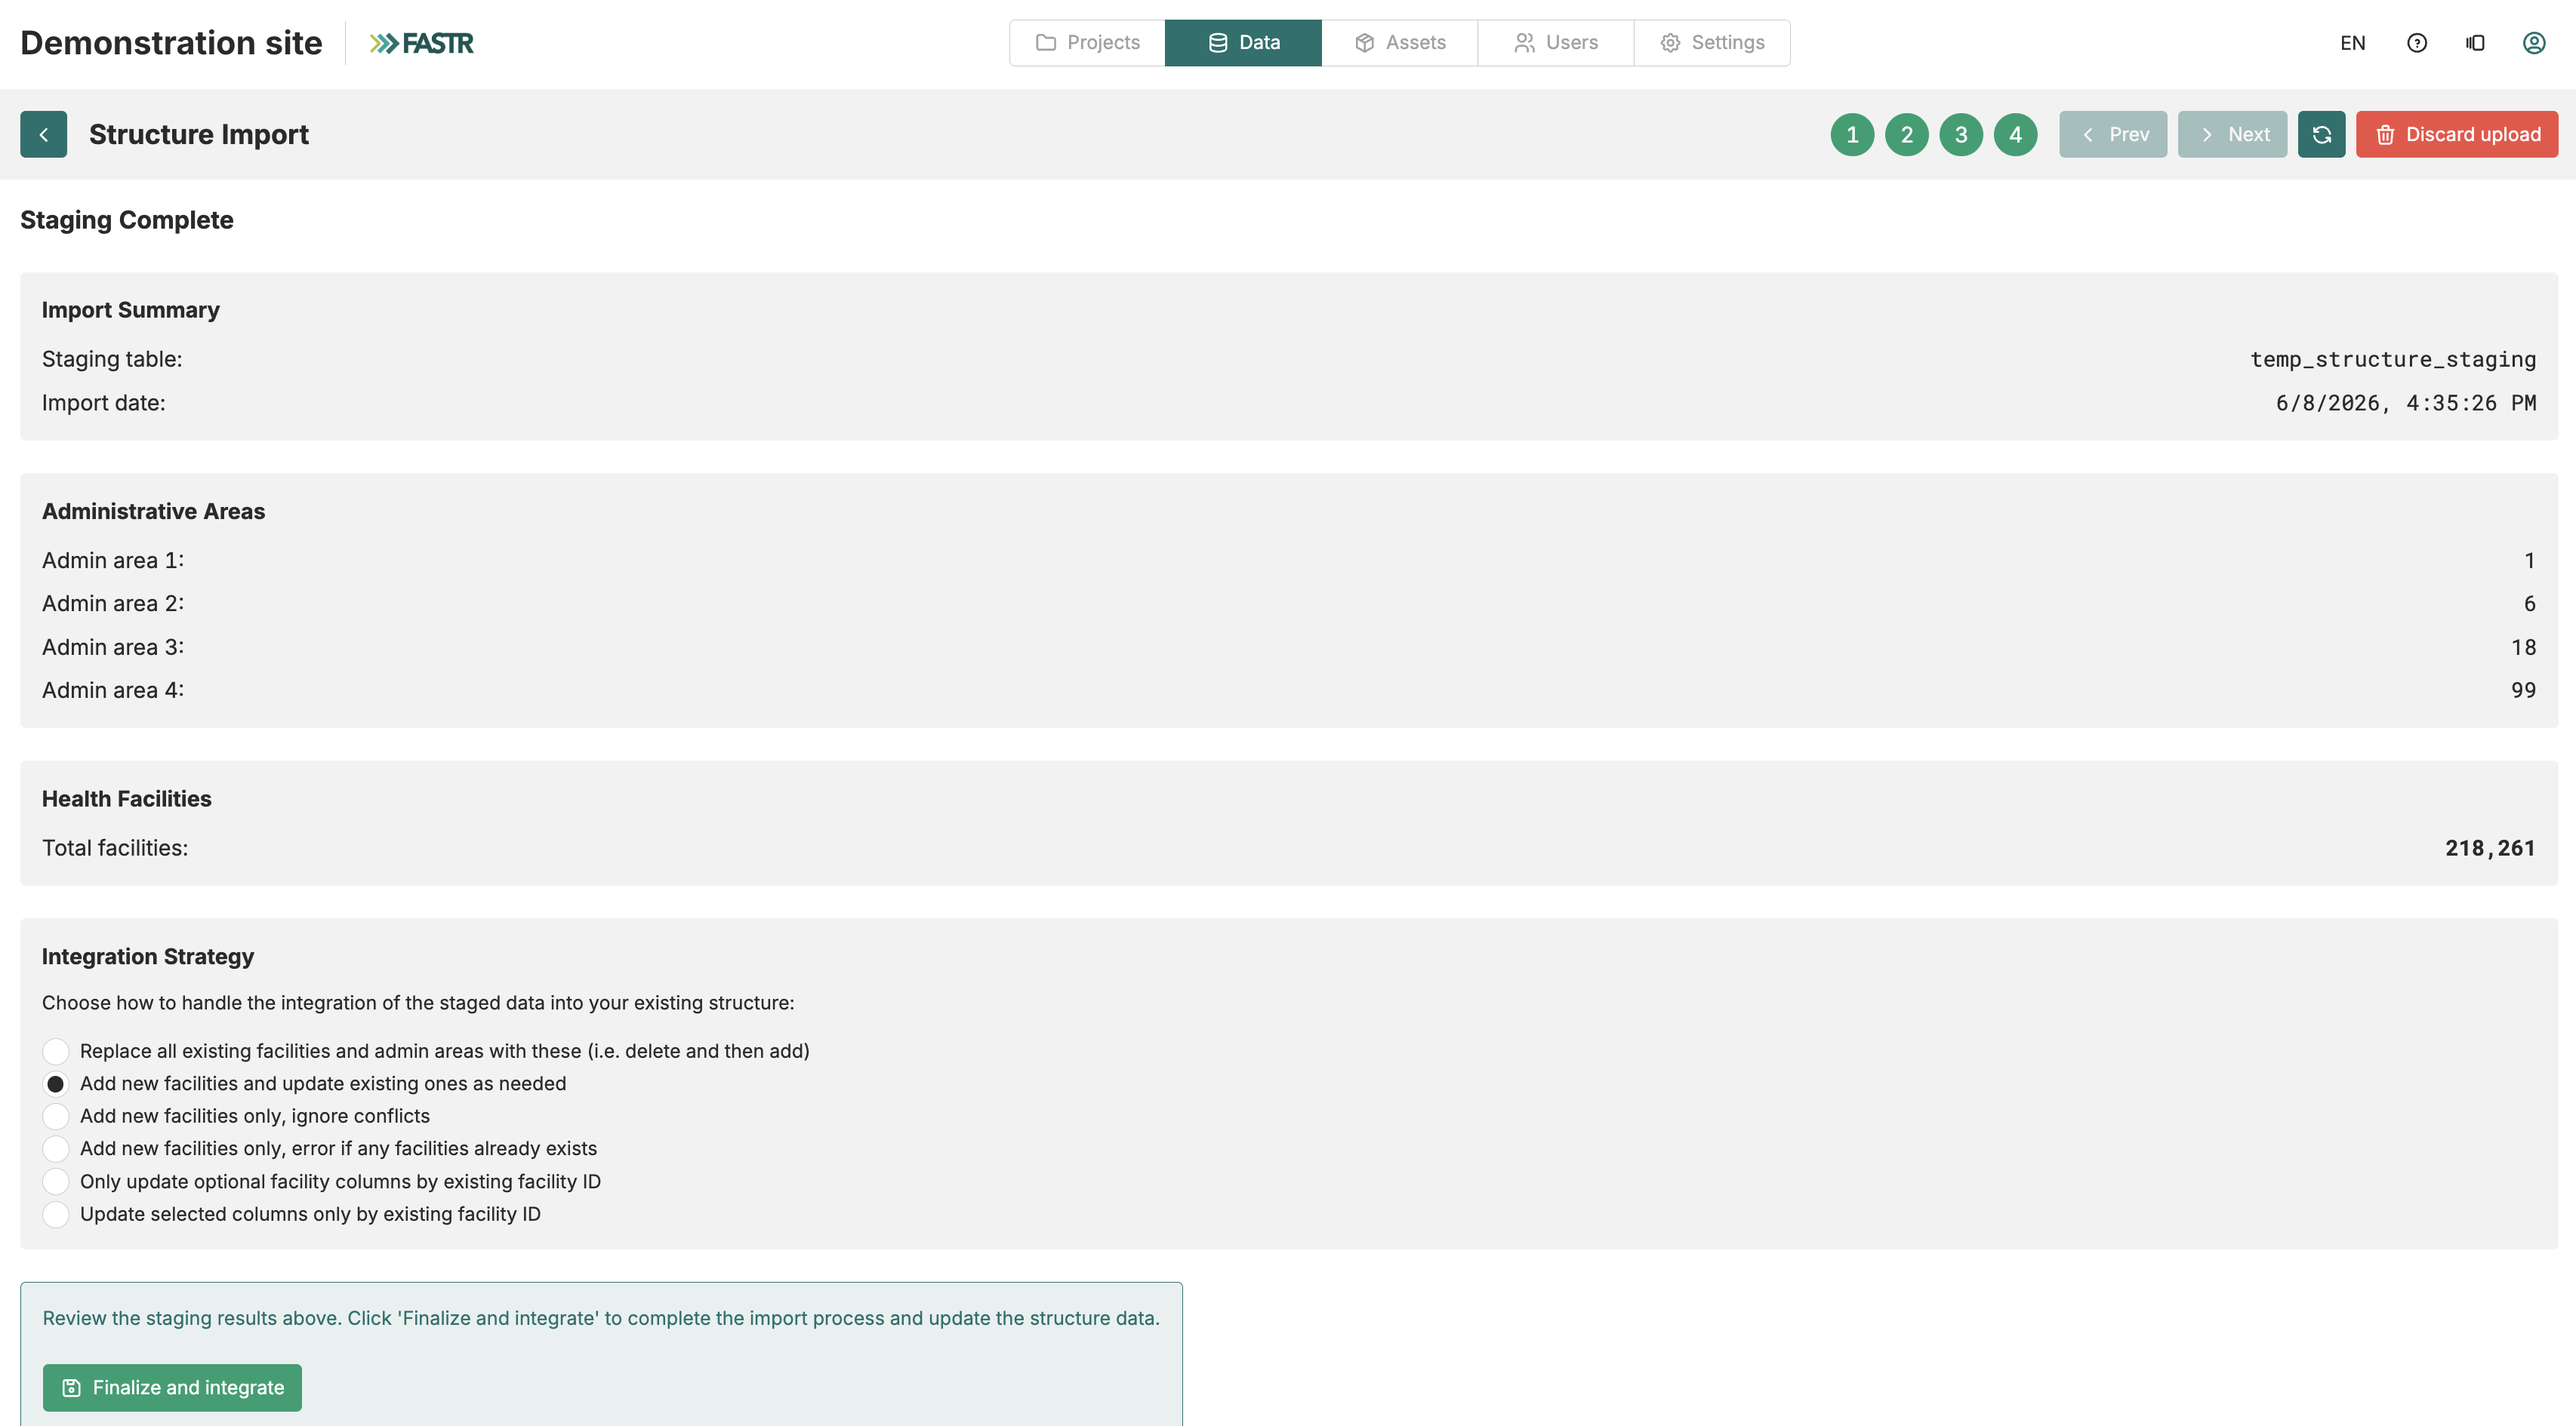
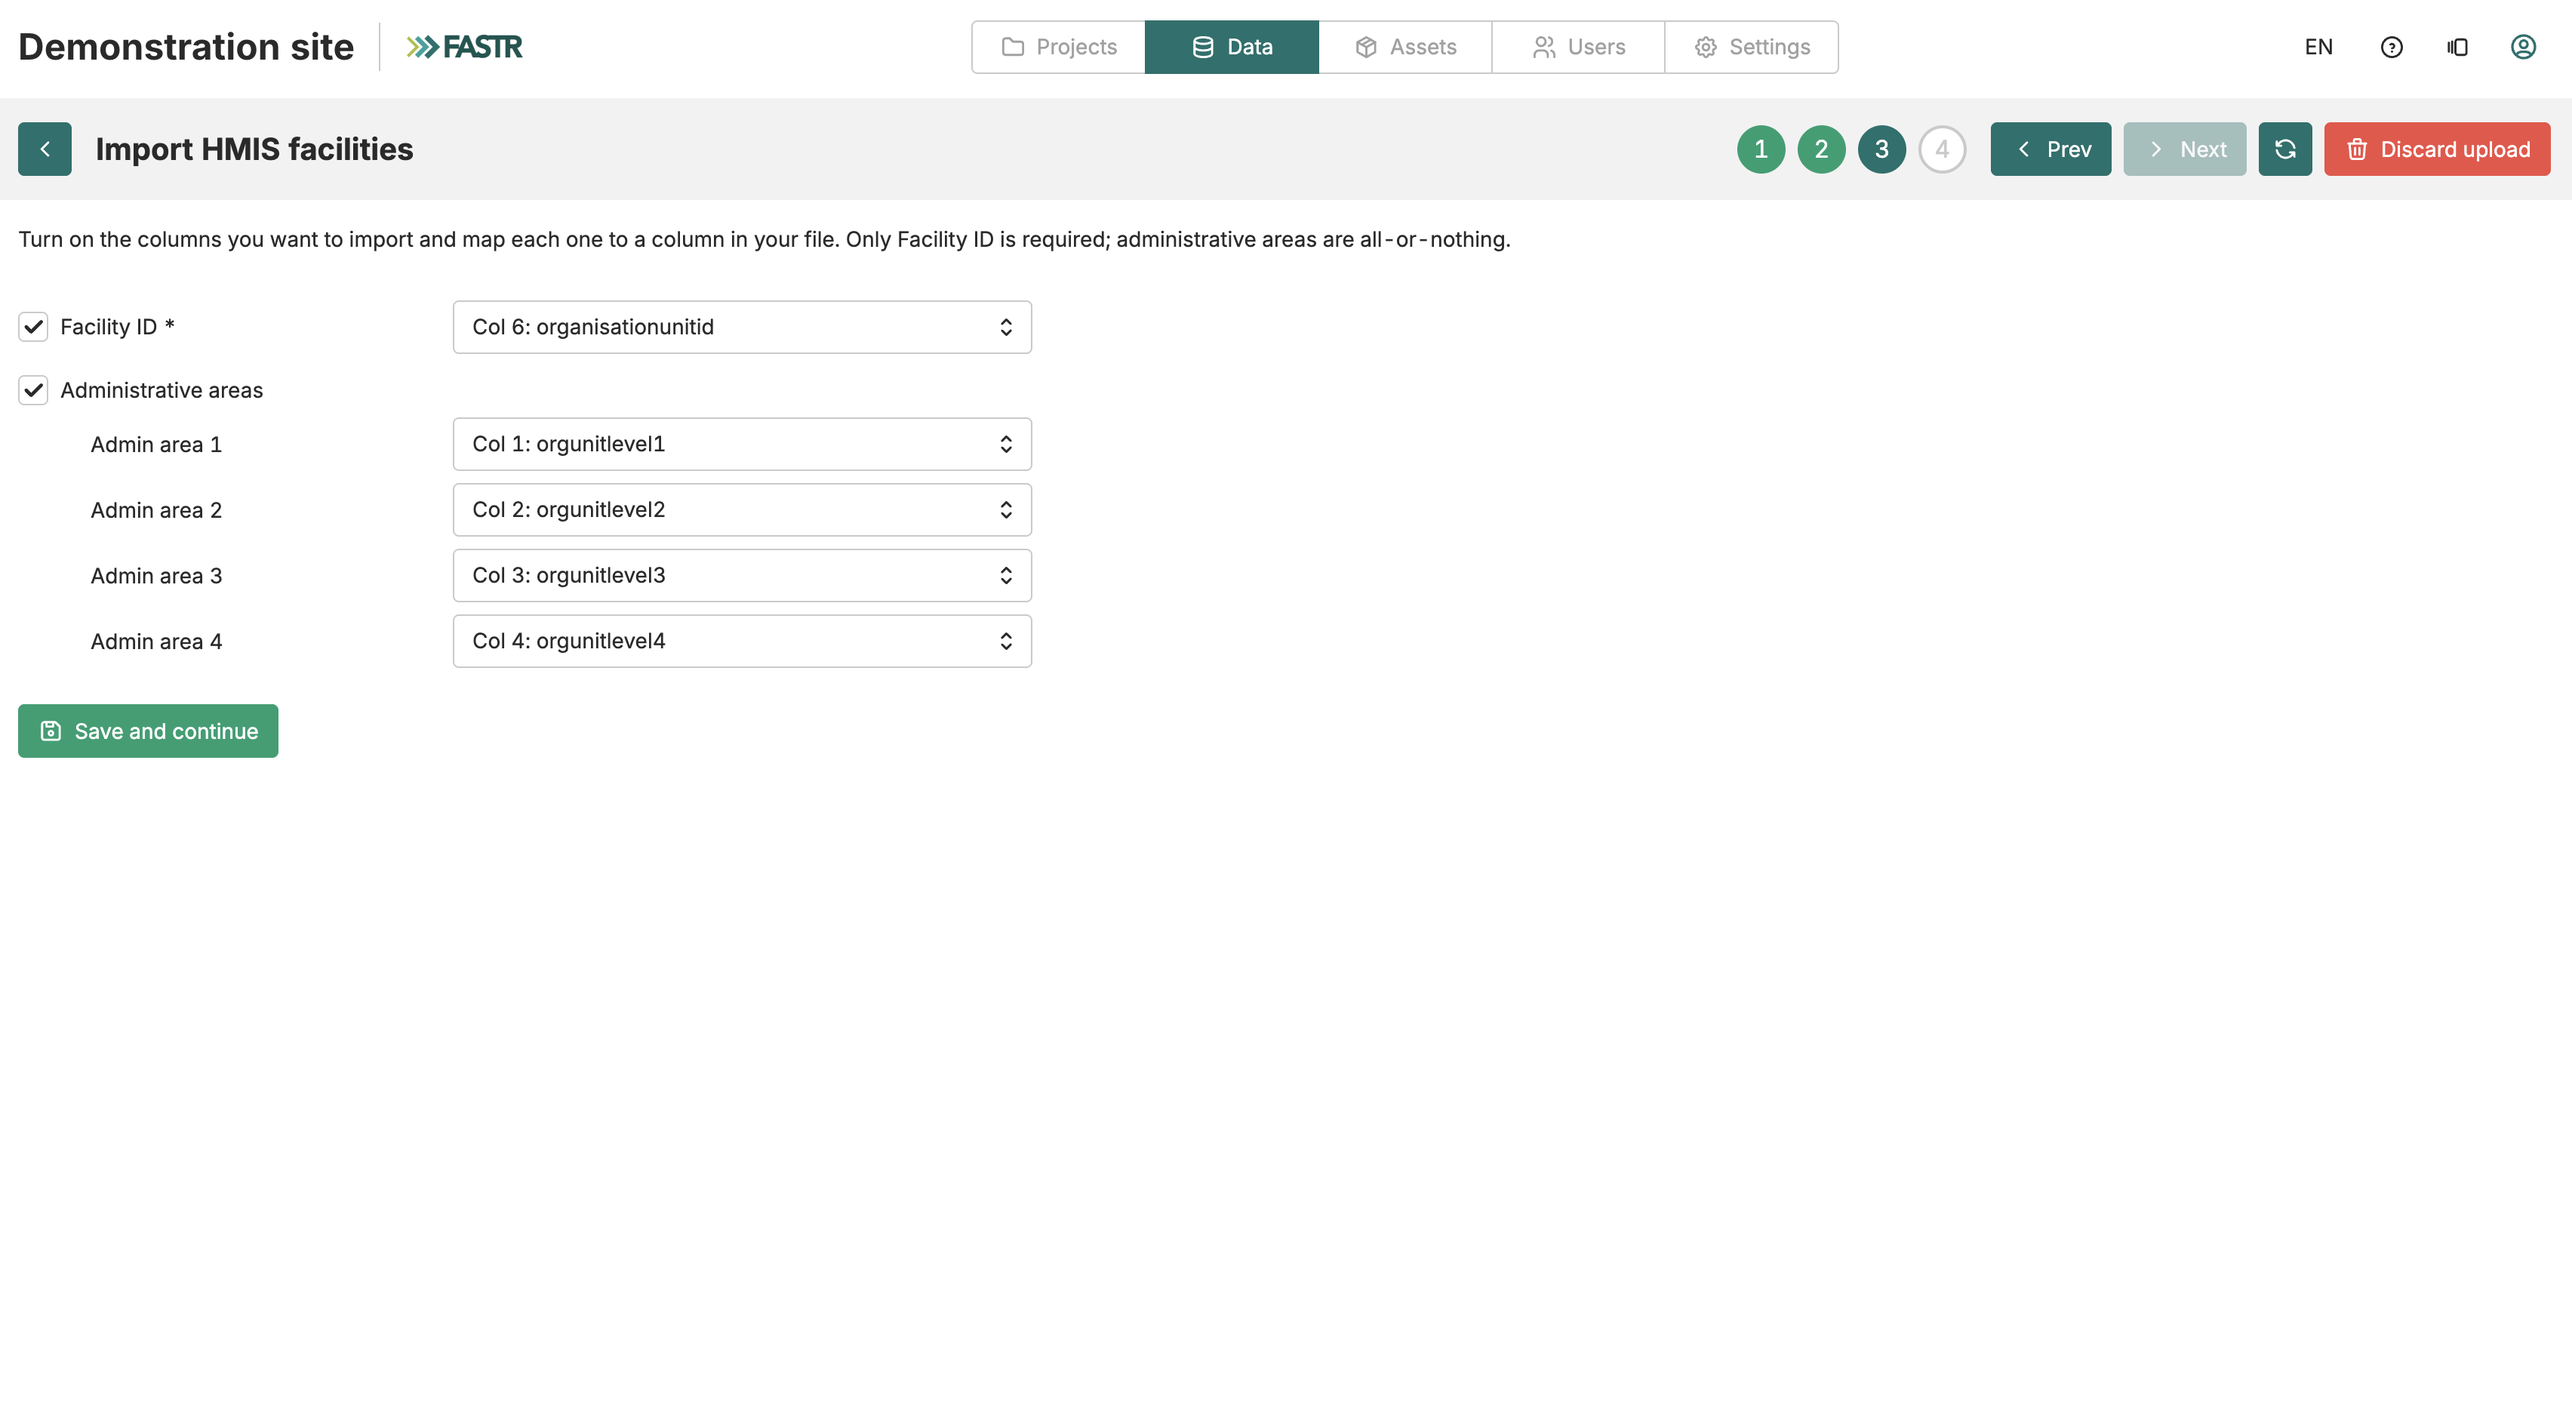
updating sc, fr structure sc

diff --git a/src/content/docs/fr/admin-guide/structure.md b/src/content/docs/fr/admin-guide/structure.md
@@ -16,9 +16,7 @@ Une hiérarchie typique : la Zone administrative 1 représente l'ensemble du pay
 
 Les zones administratives sont créées automatiquement lors de l'importation des établissements - chaque ligne d'établissement porte son chemin d'unité administrative. Elles sont également supprimées automatiquement lorsqu'aucun établissement des deux registres n'y fait référence ; vous n'avez donc pas besoin de les gérer directement.
 
-:::caution[Capture d'écran à ajouter]
-Paramètres de l'instance montrant la configuration des libellés des niveaux de zones administratives.
-:::
+![Admin Areas FR](/images/admin-areas-fr.png)
 
 ## Établissements de santé
 <!-- help#struct-facilities -->
@@ -29,9 +27,7 @@ Les établissements peuvent avoir des attributs facultatifs : type d'établissem
 
 Ces attributs permettent la désagrégation dans les visualisations. Si vous souhaitez comparer les performances entre les établissements publics et privés, ces attributs doivent être renseignés dans vos données de structure.
 
-:::caution[Capture d'écran à ajouter]
-Configuration des colonnes d'établissements dans les paramètres de l'instance, montrant le type, la propriété et les champs personnalisés.
-:::
+![Health Facilities FR](/images/health-facilities-fr.png)
 
 ## Importer des établissements
 
@@ -57,9 +53,7 @@ L'import CSV suit un assistant en plusieurs étapes.
 
 Avant de confirmer, le résumé indique combien d'établissements existants correspondent aux identifiants de votre fichier et combien sont nouveaux. Si aucun ne correspond alors que vous attendiez des mises à jour, la colonne Identifiant d'établissement est probablement mal associée, ou vous importez dans le mauvais registre (SNIS ou FOSA).
 
-:::caution[Capture d'écran à ajouter]
-Étape 4 de l'assistant d'import de structure montrant les résultats de préparation avec le nombre de zones administratives et d'établissements.
-:::
+![Structure Import FR](/images/structure-import-fr.png)
 
 ### Import DHIS2
 
@@ -73,9 +67,7 @@ Pour supprimer tous les établissements d'un registre, ouvrez la carte de ce reg
 
 Pour supprimer simultanément toutes les zones administratives et tous les établissements des deux registres, ouvrez la carte **Zones administratives** et cliquez sur **Supprimer toutes les unités administratives et tous les établissements**. Utilisez cette option avec prudence, car elle affecte les modules et les visualisations qui font référence à l'ancienne structure.
 
-:::caution[Capture d'écran à ajouter]
-Vue de gestion de la structure montrant le tableau des établissements avec les colonnes de zones administratives.
-:::
+![Managing Existing Facilities FR](/images/managing-existing-facilities-fr.png)
 
 ## Pondérations d'échantillonnage des établissements HFA
 
@@ -94,8 +86,6 @@ Les visualisations cartographiques nécessitent des données de limites géograp
 
 Chaque fichier GeoJSON doit contenir des polygones avec une propriété correspondant aux noms des zones administratives de vos données de structure. FASTR tente de faire correspondre les entités aux zones administratives lors du chargement et signale toute incohérence. Les zones non appariées apparaissent vides sur les cartes.
 
-:::caution[Capture d'écran à ajouter]
-Gestionnaire GeoJSON montrant les fichiers cartographiques chargés avec le niveau de zone administrative et la date de chargement.
-:::
+![GeoJSON FR](/images/geojson-fr.png)
 
 Si la nomenclature diffère entre votre GeoJSON et vos données de structure, l'éditeur GeoJSON vous permet de modifier les propriétés des entités pour résoudre les problèmes de correspondance.

diff --git a/src/content/docs/admin-guide/structure.md b/src/content/docs/admin-guide/structure.md
@@ -67,7 +67,7 @@ To delete all facilities in a registry, open that registry's card and click **De
 
 To remove all admin areas and facilities from both registries at once, open the **Admin areas** card and click **Clear all admin areas and facilities**. Use this option with caution, as it affects modules and visualizations that reference the old structure.
 
-![Managing Structure](/images/managing-structure-en.png)
+![Managing Existing Facilities](/images/managing-existing-facilities-en.png)
 
 ## HFA facility sampling weights
 
